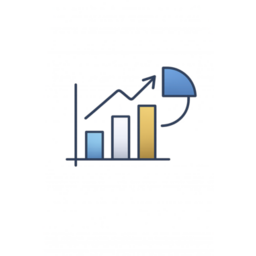
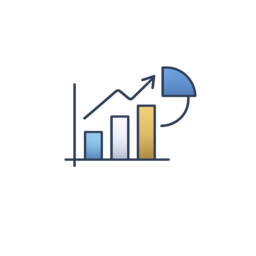
fix(ui): icones Dashboard e Oficinas - tamanho T3+20% (aprovado em preview)
- PNGs: re-otimizados pra canvas quadrado 256x256 com conteudo preenchido
  (B1 do preview - sem padding interno transparente)
- Componentes: renderizam 2.4x do size pedido, com margin negativo pra
  manter layout intacto. Resultado: icone aparece visualmente do tamanho
  dos emojis vizinhos no header (em vez de menor).

Aprovado pelo Ailson em preview-t3-acima.html (T3 = 2x, +20% = 2.4x).

Aplica nos dois locais que usam esses componentes:
- Header (size=24) -> renderiza como 58px
- Cards home (size=40) -> renderiza como 96px

diff --git a/src/App.tsx b/src/App.tsx
@@ -30,15 +30,21 @@ const _FS = 14;
 // SVG ICONS — NAVEGAÇÃO PRINCIPAL
 // ═══════════════════════════════════════════════════════════════════════════════
 
-const SvgDashboard = ({ size = 32 }) => (
-  <img
-    src="/icone-dashboard.png"
-    alt="Dashboard"
-    width={Math.round(size * 1.25)}
-    height={Math.round(size * 1.25)}
-    style={{ objectFit: 'contain', display: 'block', margin: `${-Math.round(size * 0.125)}px` }}
-  />
-);
+const SvgDashboard = ({ size = 32 }) => {
+  // T3+20%: renderiza a 2.4x do size com margin negativo pra encaixar
+  // no slot original sem empurrar layout. Aprovado em preview pelo Ailson 25/04.
+  const renderSize = Math.round(size * 2.4);
+  const marginPx = -Math.round((renderSize - size) / 2);
+  return (
+    <img
+      src="/icone-dashboard.png"
+      alt="Dashboard"
+      width={renderSize}
+      height={renderSize}
+      style={{ objectFit: 'contain', display: 'block', margin: `${marginPx}px` }}
+    />
+  );
+};
 
 const SvgLancamentos = ({ size = 32 }) => (
   <svg width={size} height={size} viewBox="0 0 64 64" fill="none">
@@ -73,15 +79,21 @@ const SvgBoletos = ({ size = 32 }) => (
   </svg>
 );
 
-const SvgOficinas = ({ size = 32 }) => (
-  <img
-    src="/icone-oficinas.png"
-    alt="Oficinas"
-    width={Math.round(size * 1.25)}
-    height={Math.round(size * 1.25)}
-    style={{ objectFit: 'contain', display: 'block', margin: `${-Math.round(size * 0.125)}px` }}
-  />
-);
+const SvgOficinas = ({ size = 32 }) => {
+  // T3+20%: renderiza a 2.4x do size com margin negativo pra encaixar
+  // no slot original sem empurrar layout. Aprovado em preview pelo Ailson 25/04.
+  const renderSize = Math.round(size * 2.4);
+  const marginPx = -Math.round((renderSize - size) / 2);
+  return (
+    <img
+      src="/icone-oficinas.png"
+      alt="Oficinas"
+      width={renderSize}
+      height={renderSize}
+      style={{ objectFit: 'contain', display: 'block', margin: `${marginPx}px` }}
+    />
+  );
+};
 
 const SvgAgenda = ({ size = 32 }) => (
   <svg width={size} height={size} viewBox="0 0 72 72" fill="none">
